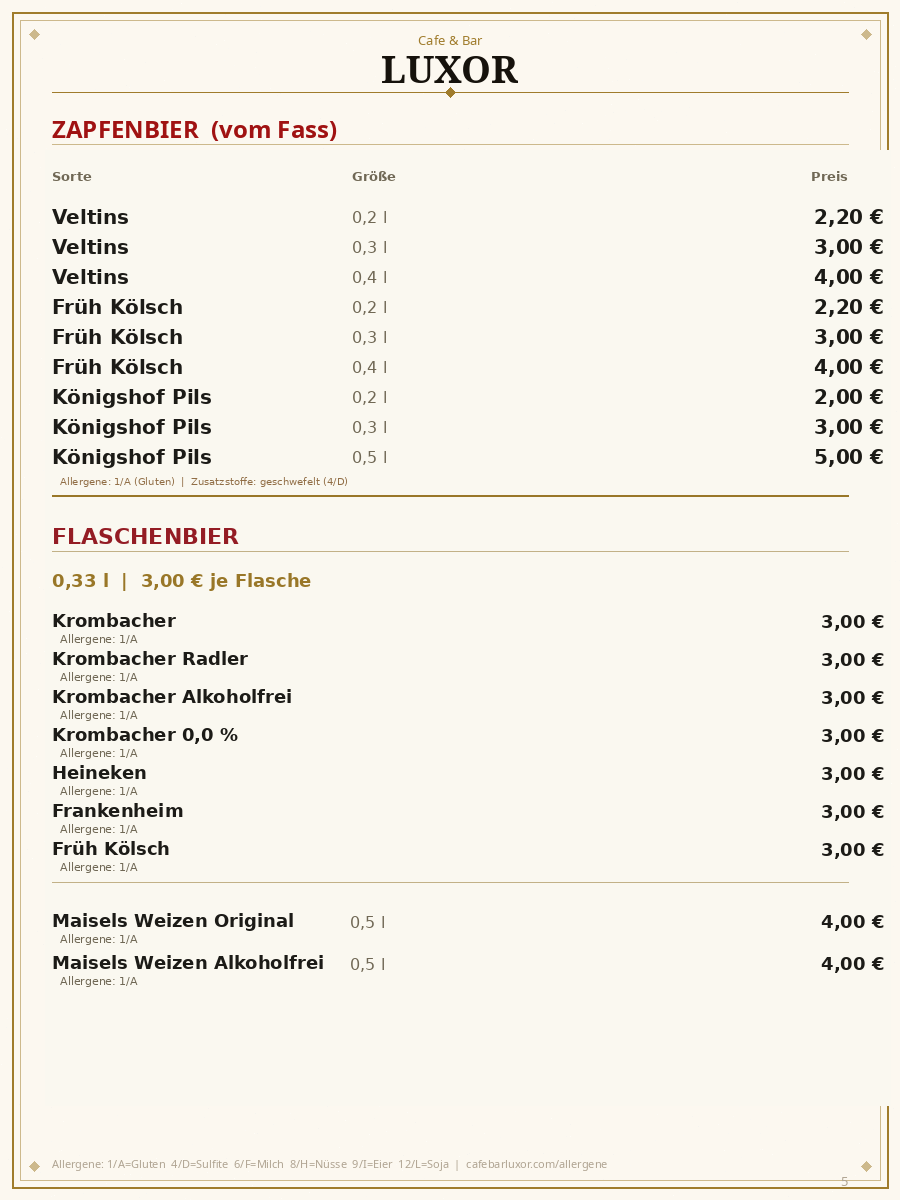
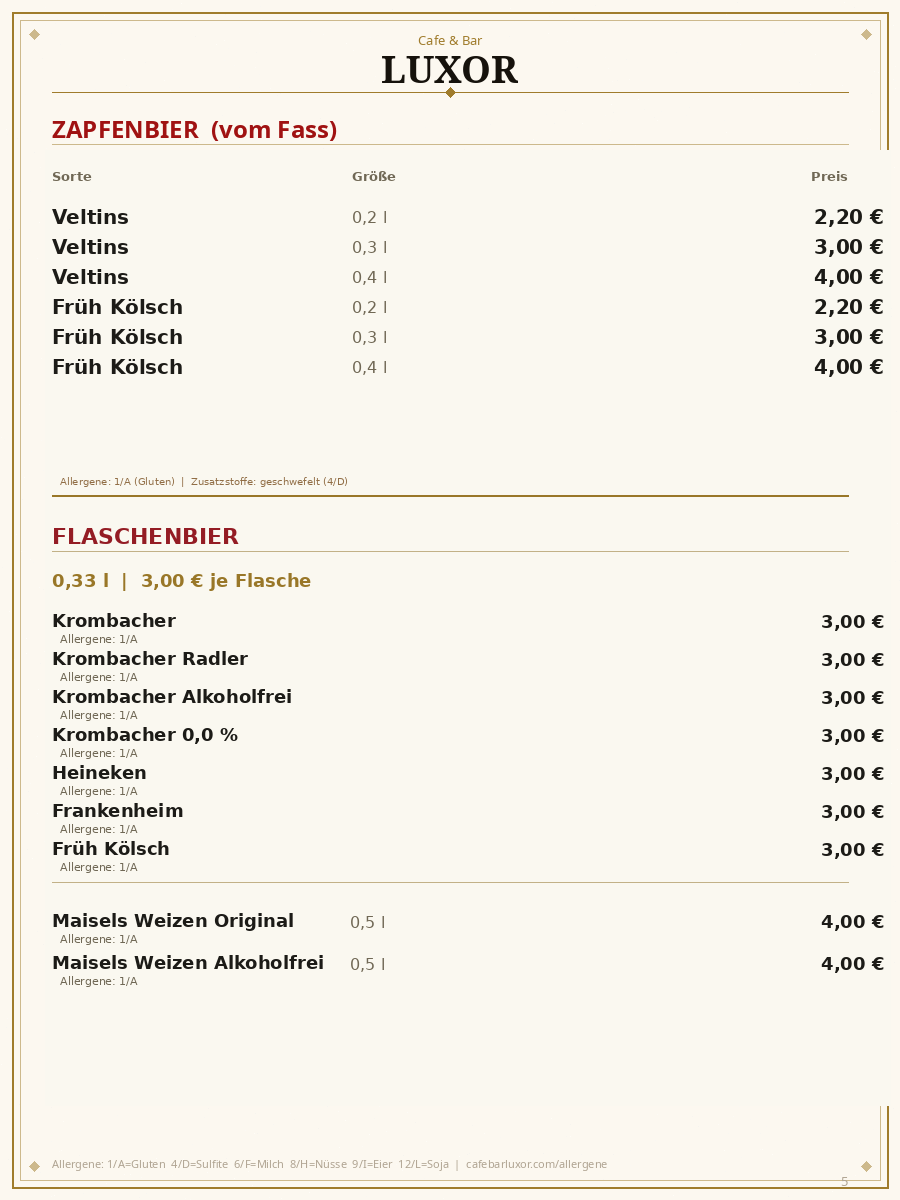
Checkpoint: Updated German and English menu drinks: Coca Cola, Cola Zero, Fanta, Sprite, Spezi, Lemon Soda, Orange Soda, Mojito Soda, Apple Spritzer and iced tea to €3.00; Bitter Lemon to €2.80; still and sparkling water to €2.30; milkshake to €5.00. Removed Königshof Pils from both beer sheets and 

Changed region(s): [[0.0622, 0.3083, 0.2489, 0.4008], [0.9022, 0.3083, 0.9956, 0.4008]]

diff --git a/client/src/pages/Menu.prices.test.ts b/client/src/pages/Menu.prices.test.ts
@@ -1,0 +1,32 @@
+import { readFileSync } from "node:fs";
+import { resolve } from "node:path";
+import { describe, expect, it } from "vitest";
+
+const projectRoot = resolve(import.meta.dirname, "..", "..", "..");
+const germanGenerator = readFileSync("/tmp/update_luxor_prices.py", "utf8");
+const germanBeerGenerator = readFileSync("/tmp/fix_luxor_menu_layout.py", "utf8");
+const englishGenerator = readFileSync("/tmp/make_updated_english_prices.py", "utf8");
+const aboutSource = readFileSync(resolve(projectRoot, "client/src/pages/About.tsx"), "utf8");
+
+describe("bilingual beverage price update", () => {
+  it("sets German cold drinks to the requested prices", () => {
+    expect(germanGenerator).toContain("'3,00 €'");
+    expect(germanGenerator).toContain("cover_price(d, 530, '2,80 €')");
+    expect(germanGenerator).toContain("'2,30 €'");
+    expect(germanGenerator).toContain("cover_price(d, 812, '5,00 €')");
+  });
+
+  it("sets English cold drinks to the requested prices", () => {
+    expect(englishGenerator).toContain("('Coca Cola','0.33 l','3.00 €'");
+    expect(englishGenerator).toContain("('Schweppes Bitter Lemon','0.25 l','2.80 €'");
+    expect(englishGenerator).toContain("('Still Water','0.2 l','2.30 €'");
+    expect(englishGenerator).toContain("('Sparkling Water','0.2 l','2.30 €'");
+    expect(englishGenerator).toContain("'Milkshake (Strawberry / Vanilla / Chocolate)','','5.00 €'");
+  });
+
+  it("removes Königshof Pils from both beer sheets and the About page", () => {
+    expect(germanBeerGenerator).not.toContain("('Königshof Pils'");
+    expect(englishGenerator).not.toContain("('Königshof Pils'");
+    expect(aboutSource).not.toContain("Königshof");
+  });
+});

diff --git a/client/src/pages/About.tsx b/client/src/pages/About.tsx
@@ -240,8 +240,8 @@ export default function About() {
                 <div className="h-px w-12 bg-red-700 mb-4" />
                 <p className="text-white/70 text-sm leading-relaxed mb-5" style={{ fontFamily: "'Source Sans 3', sans-serif" }}>
                   {lang === 'de'
-                    ? 'Unser Bier kommt direkt vom Fass — frisch gezapft, eiskalt und mit der perfekten Schaumkrone. Veltins und Früh Kölsch stehen frisch an der Zapfanlage bereit. Dazu bieten wir Königshof Pils. Jeder Schluck ist ein Erlebnis — und unser Fassbier gehört zu den günstigsten im Umkreis von Solingen, Remscheid und Wuppertal.'
-                    : 'Our beer comes straight from the tap — freshly poured, ice cold and finished with the perfect head. Veltins and Früh Kölsch are always fresh at the bar, joined by Königshof Pils. Every sip is an experience — and our draft beer is among the best-value options around Solingen, Remscheid and Wuppertal.'}
+                    ? 'Unser Bier kommt direkt vom Fass — frisch gezapft, eiskalt und mit der perfekten Schaumkrone. Veltins und Früh Kölsch stehen frisch an der Zapfanlage bereit. Jeder Schluck ist ein Erlebnis — und unser Fassbier gehört zu den günstigsten im Umkreis von Solingen, Remscheid und Wuppertal.'
+                    : 'Our beer comes straight from the tap — freshly poured, ice cold and finished with the perfect head. Veltins and Früh Kölsch are always fresh at the bar. Every sip is an experience — and our draft beer is among the best-value options around Solingen, Remscheid and Wuppertal.'}
                 </p>
                 {/* Sizes & prices */}
                 <div className="grid grid-cols-3 gap-2 mb-4">
